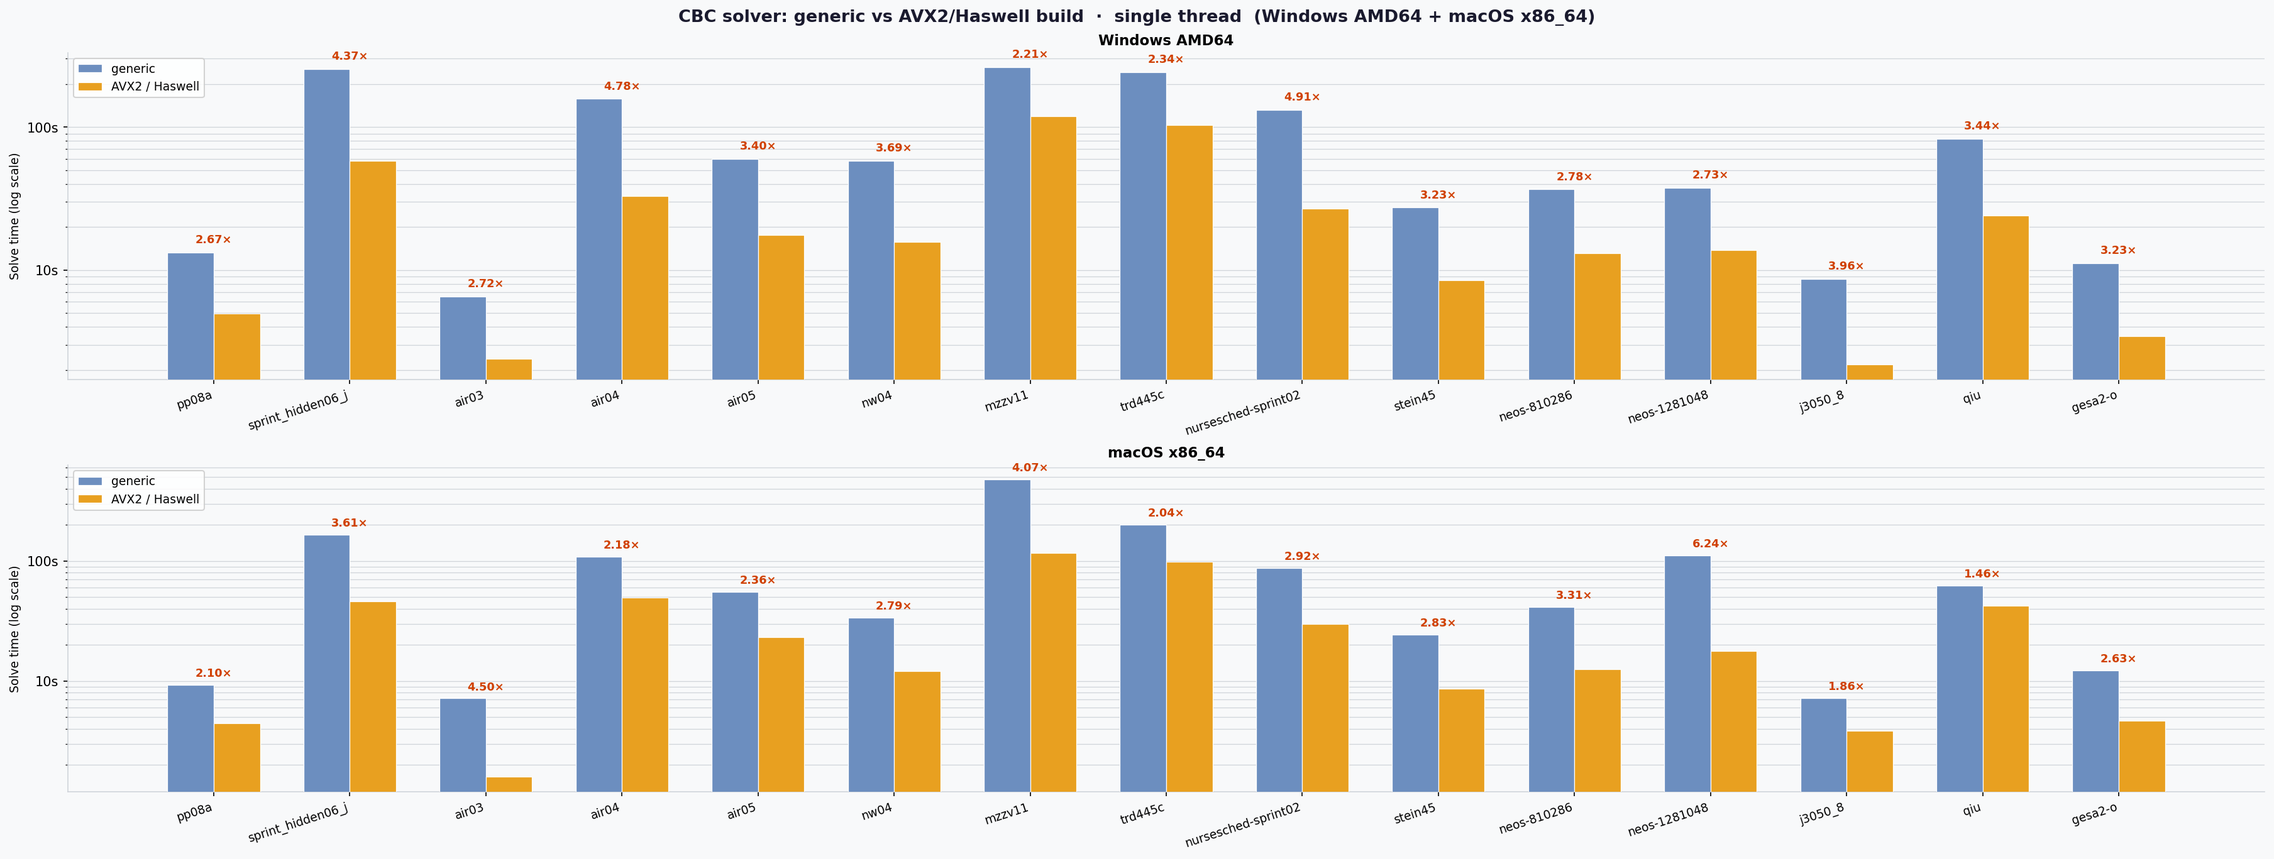
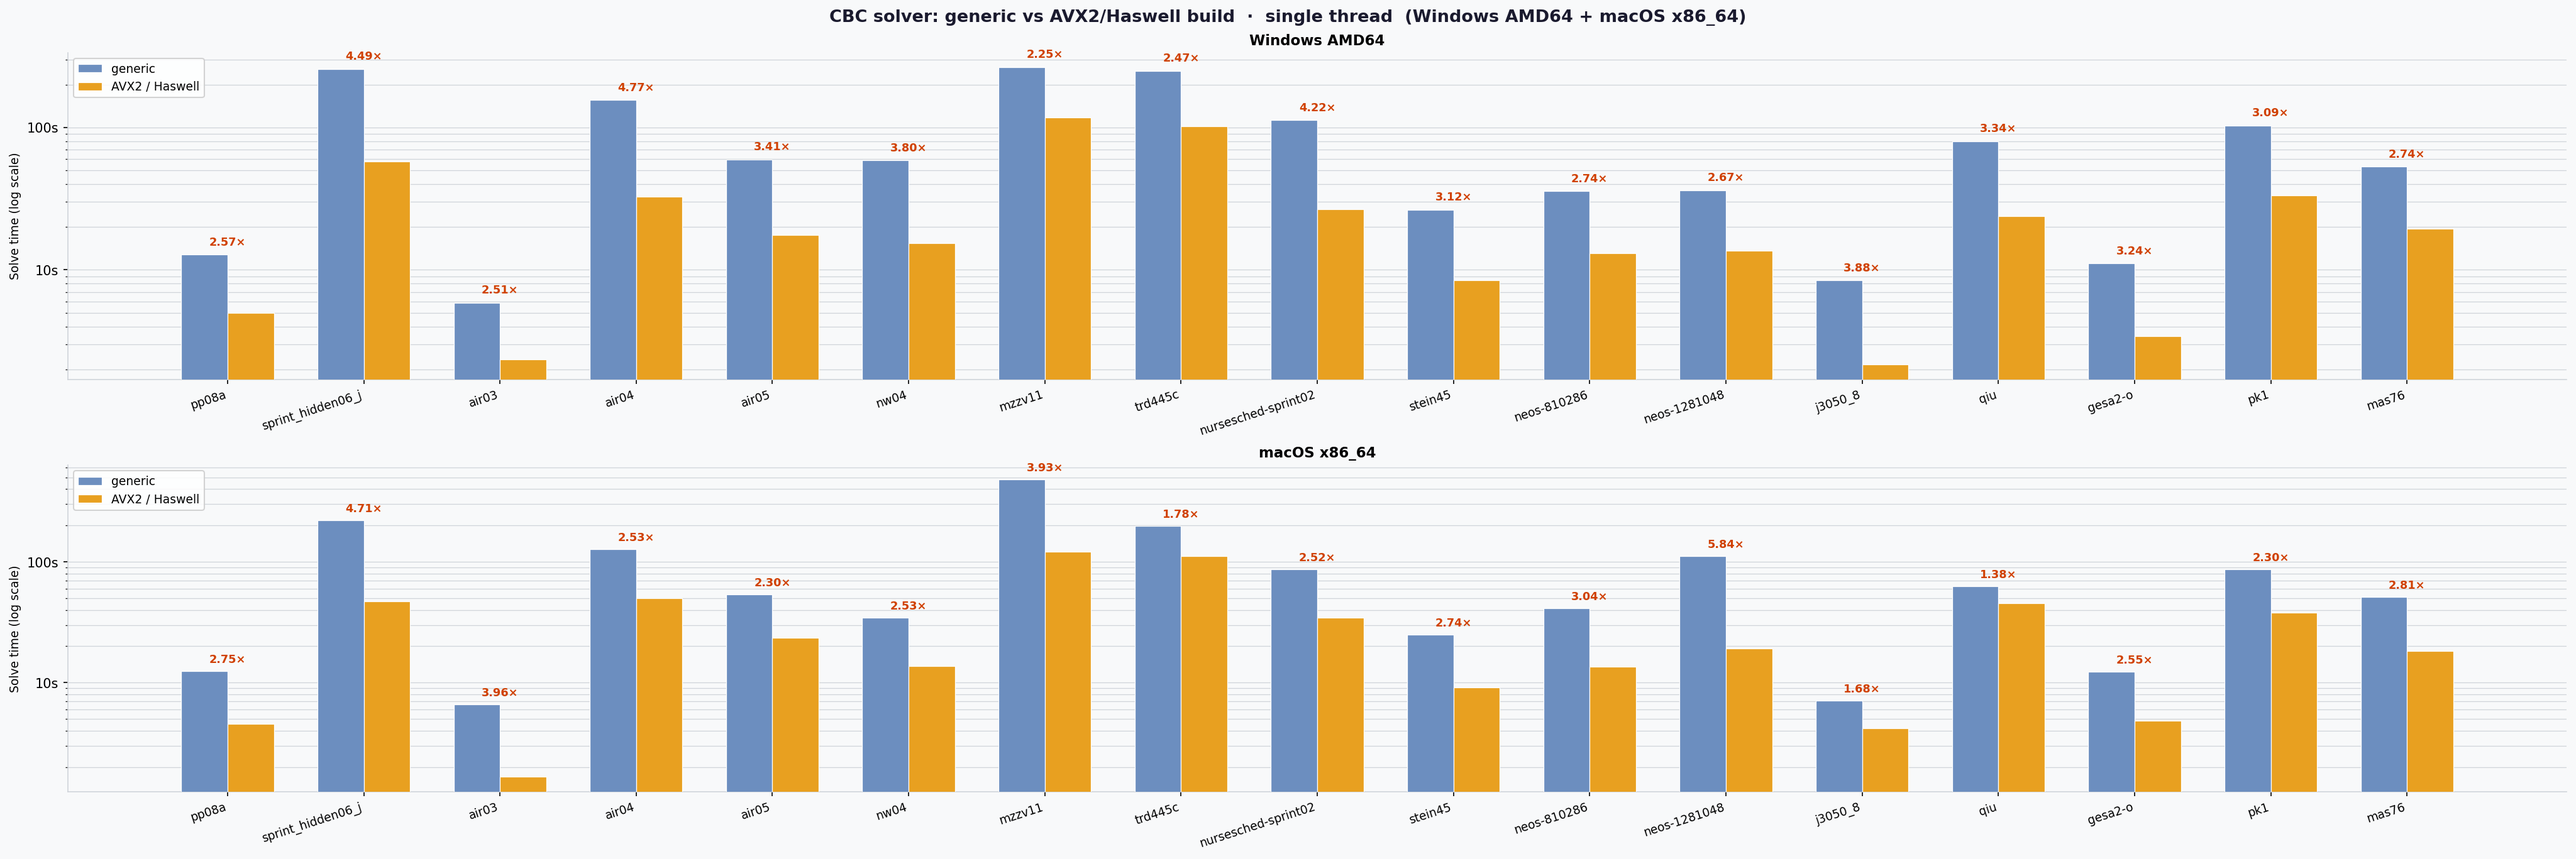
docs: update performance results [skip ci]

diff --git a/README.md b/README.md
@@ -328,17 +328,17 @@ Geometric mean solve time (seconds) across all test instances.
 
 | Platform | generic (s) | avx2 (s) | avx2 speedup |
 |---|---|---|---|
-| Darwin x86_64 | 46.88 | 16.76 | 2.80× |
-| Darwin arm64 | 35.72 | — | — |
-| Windows AMD64 | 49.96 | 15.28 | 3.27× |
+| Darwin x86_64 | 50.76 | 18.65 | 2.72× |
+| Darwin arm64 | 41.81 | — | — |
+| Windows AMD64 | 51.07 | 16.08 | 3.18× |
 
 ### 3 threads
 
 | Platform | generic (s) | avx2 (s) | avx2 speedup |
 |---|---|---|---|
-| Darwin x86_64 | 34.37 | 16.54 | 2.08× |
-| Darwin arm64 | 31.61 | — | — |
-| Windows AMD64 | 45.31 | 16.48 | 2.75× |
+| Darwin x86_64 | 36.69 | 16.89 | 2.17× |
+| Darwin arm64 | 38.21 | — | — |
+| Windows AMD64 | 46.62 | 15.92 | 2.93× |
 
 ## Per-instance results
 
@@ -346,151 +346,171 @@ Geometric mean solve time (seconds) across all test instances.
 
 | Platform | Build | 1 thread (s) | 3 threads (s) | parallel speedup |
 |---|---|---|---|---|
-| Darwin x86_64 | avx2 | 4.43 | 11.16 | 0.40× |
-| Darwin x86_64 | generic | 9.32 | 6.52 | 1.43× |
-| Darwin arm64 | generic | 8.86 | 12.14 | 0.73× |
-| Windows AMD64 | avx2 | 4.98 | 7.31 | 0.68× |
-| Windows AMD64 | generic | 13.30 | 20.96 | 0.63× |
+| Darwin x86_64 | avx2 | 4.54 | 12.21 | 0.37× |
+| Darwin x86_64 | generic | 12.50 | 5.87 | 2.13× |
+| Darwin arm64 | generic | 11.13 | 15.23 | 0.73× |
+| Windows AMD64 | avx2 | 4.97 | 8.13 | 0.61× |
+| Windows AMD64 | generic | 12.77 | 23.96 | 0.53× |
 
 ### `sprint_hidden06_j.mps.gz`
 
 | Platform | Build | 1 thread (s) | 3 threads (s) | parallel speedup |
 |---|---|---|---|---|
-| Darwin x86_64 | avx2 | 46.10 | 49.00 | 0.94× |
-| Darwin x86_64 | generic | 166.49 | 164.75 | 1.01× |
-| Darwin arm64 | generic | 117.40 | 116.09 | 1.01× |
-| Windows AMD64 | avx2 | 58.08 | 57.48 | 1.01× |
-| Windows AMD64 | generic | 253.97 | 231.89 | 1.10× |
+| Darwin x86_64 | avx2 | 46.81 | 49.23 | 0.95× |
+| Darwin x86_64 | generic | 220.56 | 164.30 | 1.34× |
+| Darwin arm64 | generic | 148.29 | 129.34 | 1.15× |
+| Windows AMD64 | avx2 | 57.47 | 54.68 | 1.05× |
+| Windows AMD64 | generic | 258.07 | 212.90 | 1.21× |
 
 ### `air03.mps.gz`
 
 | Platform | Build | 1 thread (s) | 3 threads (s) | parallel speedup |
 |---|---|---|---|---|
-| Darwin x86_64 | avx2 | 1.59 | 1.71 | 0.93× |
-| Darwin x86_64 | generic | 7.17 | 6.12 | 1.17× |
-| Darwin arm64 | generic | 3.74 | 4.62 | 0.81× |
-| Windows AMD64 | avx2 | 2.39 | 2.61 | 0.92× |
-| Windows AMD64 | generic | 6.52 | 6.20 | 1.05× |
+| Darwin x86_64 | avx2 | 1.66 | 1.86 | 0.89× |
+| Darwin x86_64 | generic | 6.58 | 6.21 | 1.06× |
+| Darwin arm64 | generic | 4.26 | 4.66 | 0.91× |
+| Windows AMD64 | avx2 | 2.35 | 2.39 | 0.98× |
+| Windows AMD64 | generic | 5.88 | 6.00 | 0.98× |
 
 ### `air04.mps.gz`
 
 | Platform | Build | 1 thread (s) | 3 threads (s) | parallel speedup |
 |---|---|---|---|---|
-| Darwin x86_64 | avx2 | 49.51 | 39.84 | 1.24× |
-| Darwin x86_64 | generic | 108.18 | 71.42 | 1.51× |
-| Darwin arm64 | generic | 101.37 | 77.75 | 1.30× |
-| Windows AMD64 | avx2 | 32.90 | 28.93 | 1.14× |
-| Windows AMD64 | generic | 157.28 | 128.07 | 1.23× |
+| Darwin x86_64 | avx2 | 50.02 | 36.48 | 1.37× |
+| Darwin x86_64 | generic | 126.75 | 108.34 | 1.17× |
+| Darwin arm64 | generic | 119.98 | 79.72 | 1.51× |
+| Windows AMD64 | avx2 | 32.67 | 27.32 | 1.20× |
+| Windows AMD64 | generic | 155.82 | 89.82 | 1.73× |
 
 ### `air05.mps.gz`
 
 | Platform | Build | 1 thread (s) | 3 threads (s) | parallel speedup |
 |---|---|---|---|---|
-| Darwin x86_64 | avx2 | 23.32 | 17.73 | 1.32× |
-| Darwin x86_64 | generic | 55.07 | 40.49 | 1.36× |
-| Darwin arm64 | generic | 45.97 | 41.33 | 1.11× |
-| Windows AMD64 | avx2 | 17.64 | 13.65 | 1.29× |
-| Windows AMD64 | generic | 60.04 | 42.21 | 1.42× |
+| Darwin x86_64 | avx2 | 23.51 | 18.07 | 1.30× |
+| Darwin x86_64 | generic | 53.95 | 44.40 | 1.22× |
+| Darwin arm64 | generic | 51.82 | 41.16 | 1.26× |
+| Windows AMD64 | avx2 | 17.55 | 13.39 | 1.31× |
+| Windows AMD64 | generic | 59.76 | 41.70 | 1.43× |
 
 ### `nw04.mps.gz`
 
 | Platform | Build | 1 thread (s) | 3 threads (s) | parallel speedup |
 |---|---|---|---|---|
-| Darwin x86_64 | avx2 | 12.16 | 13.96 | 0.87× |
-| Darwin x86_64 | generic | 33.93 | 46.54 | 0.73× |
-| Darwin arm64 | generic | 32.39 | 38.47 | 0.84× |
-| Windows AMD64 | avx2 | 15.73 | 16.08 | 0.98× |
-| Windows AMD64 | generic | 58.04 | 55.64 | 1.04× |
+| Darwin x86_64 | avx2 | 13.63 | 14.51 | 0.94× |
+| Darwin x86_64 | generic | 34.45 | 35.80 | 0.96× |
+| Darwin arm64 | generic | 35.97 | 37.41 | 0.96× |
+| Windows AMD64 | avx2 | 15.43 | 16.07 | 0.96× |
+| Windows AMD64 | generic | 58.61 | 53.68 | 1.09× |
 
 ### `mzzv11.mps.gz`
 
 | Platform | Build | 1 thread (s) | 3 threads (s) | parallel speedup |
 |---|---|---|---|---|
-| Darwin x86_64 | avx2 | 117.09 | 94.52 | 1.24× |
-| Darwin x86_64 | generic | 476.47 | 333.68 | 1.43× |
-| Darwin arm64 | generic | 239.62 | 214.84 | 1.12× |
-| Windows AMD64 | avx2 | 118.46 | 222.86 | 0.53× |
-| Windows AMD64 | generic | 261.27 | 269.50 | 0.97× |
+| Darwin x86_64 | avx2 | 121.72 | 76.65 | 1.59× |
+| Darwin x86_64 | generic | 478.14 | 351.49 | 1.36× |
+| Darwin arm64 | generic | 255.19 | 193.27 | 1.32× |
+| Windows AMD64 | avx2 | 117.33 | 140.70 | 0.83× |
+| Windows AMD64 | generic | 264.54 | 390.19 | 0.68× |
 
 ### `trd445c.mps.gz`
 
 | Platform | Build | 1 thread (s) | 3 threads (s) | parallel speedup |
 |---|---|---|---|---|
-| Darwin x86_64 | avx2 | 98.57 | 112.38 | 0.88× |
-| Darwin x86_64 | generic | 200.93 | 202.68 | 0.99× |
-| Darwin arm64 | generic | 171.81 | 188.80 | 0.91× |
-| Windows AMD64 | avx2 | 103.02 | 100.52 | 1.02× |
-| Windows AMD64 | generic | 241.19 | 231.39 | 1.04× |
+| Darwin x86_64 | avx2 | 111.99 | 104.13 | 1.08× |
+| Darwin x86_64 | generic | 198.88 | 204.17 | 0.97× |
+| Darwin arm64 | generic | 205.43 | 185.55 | 1.11× |
+| Windows AMD64 | avx2 | 101.53 | 114.88 | 0.88× |
+| Windows AMD64 | generic | 250.28 | 231.22 | 1.08× |
 
 ### `nursesched-sprint02.mps.gz`
 
 | Platform | Build | 1 thread (s) | 3 threads (s) | parallel speedup |
 |---|---|---|---|---|
-| Darwin x86_64 | avx2 | 29.92 | 41.20 | 0.73× |
-| Darwin x86_64 | generic | 87.36 | 90.99 | 0.96× |
-| Darwin arm64 | generic | 82.45 | 94.54 | 0.87× |
-| Windows AMD64 | avx2 | 26.77 | 26.52 | 1.01× |
-| Windows AMD64 | generic | 131.29 | 86.35 | 1.52× |
+| Darwin x86_64 | avx2 | 34.36 | 33.17 | 1.04× |
+| Darwin x86_64 | generic | 86.66 | 90.90 | 0.95× |
+| Darwin arm64 | generic | 96.86 | 96.62 | 1.00× |
+| Windows AMD64 | avx2 | 26.58 | 26.58 | 1.00× |
+| Windows AMD64 | generic | 112.24 | 87.62 | 1.28× |
 
 ### `stein45.mps.gz`
 
 | Platform | Build | 1 thread (s) | 3 threads (s) | parallel speedup |
 |---|---|---|---|---|
-| Darwin x86_64 | avx2 | 8.62 | 10.77 | 0.80× |
-| Darwin x86_64 | generic | 24.42 | 17.16 | 1.42× |
-| Darwin arm64 | generic | 18.49 | 13.54 | 1.37× |
-| Windows AMD64 | avx2 | 8.48 | — | — |
-| Windows AMD64 | generic | 27.34 | 17.13 | 1.60× |
+| Darwin x86_64 | avx2 | 9.14 | 8.06 | 1.13× |
+| Darwin x86_64 | generic | 25.04 | 15.92 | 1.57× |
+| Darwin arm64 | generic | 19.78 | 16.55 | 1.19× |
+| Windows AMD64 | avx2 | 8.44 | 7.87 | 1.07× |
+| Windows AMD64 | generic | 26.37 | 21.25 | 1.24× |
 
 ### `neos-810286.mps.gz`
 
 | Platform | Build | 1 thread (s) | 3 threads (s) | parallel speedup |
 |---|---|---|---|---|
-| Darwin x86_64 | avx2 | 12.48 | 14.28 | 0.87× |
-| Darwin x86_64 | generic | 41.37 | 40.30 | 1.03× |
-| Darwin arm64 | generic | 24.67 | 31.13 | 0.79× |
-| Windows AMD64 | avx2 | 13.18 | 15.63 | 0.84× |
-| Windows AMD64 | generic | 36.67 | 45.63 | 0.80× |
+| Darwin x86_64 | avx2 | 13.59 | 13.20 | 1.03× |
+| Darwin x86_64 | generic | 41.34 | 39.29 | 1.05× |
+| Darwin arm64 | generic | 25.92 | 38.85 | 0.67× |
+| Windows AMD64 | avx2 | 13.03 | 13.03 | 1.00× |
+| Windows AMD64 | generic | 35.70 | 47.87 | 0.75× |
 
 ### `neos-1281048.mps.gz`
 
 | Platform | Build | 1 thread (s) | 3 threads (s) | parallel speedup |
 |---|---|---|---|---|
-| Darwin x86_64 | avx2 | 17.78 | 9.66 | 1.84× |
-| Darwin x86_64 | generic | 110.96 | 15.89 | 6.98× |
-| Darwin arm64 | generic | 37.56 | 16.95 | 2.22× |
-| Windows AMD64 | avx2 | 13.75 | 17.43 | 0.79× |
-| Windows AMD64 | generic | 37.54 | 45.70 | 0.82× |
+| Darwin x86_64 | avx2 | 19.08 | 8.73 | 2.19× |
+| Darwin x86_64 | generic | 111.41 | 15.14 | 7.36× |
+| Darwin arm64 | generic | 41.77 | 20.37 | 2.05× |
+| Windows AMD64 | avx2 | 13.59 | 9.33 | 1.46× |
+| Windows AMD64 | generic | 36.29 | 23.16 | 1.57× |
 
 ### `j3050_8.mps.gz`
 
 | Platform | Build | 1 thread (s) | 3 threads (s) | parallel speedup |
 |---|---|---|---|---|
-| Darwin x86_64 | avx2 | 3.85 | 3.92 | 0.98× |
-| Darwin x86_64 | generic | 7.18 | 7.63 | 0.94× |
-| Darwin arm64 | generic | 7.70 | 6.77 | 1.14× |
-| Windows AMD64 | avx2 | 2.19 | 2.37 | 0.92× |
-| Windows AMD64 | generic | 8.67 | 6.97 | 1.24× |
+| Darwin x86_64 | avx2 | 4.21 | 3.61 | 1.17× |
+| Darwin x86_64 | generic | 7.09 | 7.79 | 0.91× |
+| Darwin arm64 | generic | 8.06 | 8.91 | 0.90× |
+| Windows AMD64 | avx2 | 2.17 | 2.37 | 0.91× |
+| Windows AMD64 | generic | 8.41 | 8.14 | 1.03× |
 
 ### `qiu.mps.gz`
 
 | Platform | Build | 1 thread (s) | 3 threads (s) | parallel speedup |
 |---|---|---|---|---|
-| Darwin x86_64 | avx2 | 42.56 | 15.79 | 2.70× |
-| Darwin x86_64 | generic | 62.31 | 24.57 | 2.54× |
-| Darwin arm64 | generic | 83.68 | 27.62 | 3.03× |
-| Windows AMD64 | avx2 | 24.09 | 12.37 | 1.95× |
-| Windows AMD64 | generic | 82.99 | 48.81 | 1.70× |
+| Darwin x86_64 | avx2 | 45.17 | 13.74 | 3.29× |
+| Darwin x86_64 | generic | 62.44 | 23.18 | 2.69× |
+| Darwin arm64 | generic | 89.50 | 41.60 | 2.15× |
+| Windows AMD64 | avx2 | 23.91 | 11.96 | 2.00× |
+| Windows AMD64 | generic | 79.93 | 39.56 | 2.02× |
 
 ### `gesa2-o.mps.gz`
 
 | Platform | Build | 1 thread (s) | 3 threads (s) | parallel speedup |
 |---|---|---|---|---|
-| Darwin x86_64 | avx2 | 4.68 | 5.11 | 0.92× |
-| Darwin x86_64 | generic | 12.31 | 9.84 | 1.25× |
-| Darwin arm64 | generic | 8.96 | 7.64 | 1.17× |
-| Windows AMD64 | avx2 | 3.45 | 3.29 | 1.05× |
-| Windows AMD64 | generic | 11.15 | 11.75 | 0.95× |
+| Darwin x86_64 | avx2 | 4.84 | 4.52 | 1.07× |
+| Darwin x86_64 | generic | 12.36 | 9.47 | 1.30× |
+| Darwin arm64 | generic | 9.58 | 9.93 | 0.96× |
+| Windows AMD64 | avx2 | 3.42 | 3.37 | 1.02× |
+| Windows AMD64 | generic | 11.08 | 11.84 | 0.94× |
+
+### `pk1.mps.gz`
+
+| Platform | Build | 1 thread (s) | 3 threads (s) | parallel speedup |
+|---|---|---|---|---|
+| Darwin x86_64 | avx2 | 37.84 | 37.32 | 1.01× |
+| Darwin x86_64 | generic | 86.89 | 59.84 | 1.45× |
+| Darwin arm64 | generic | 70.76 | 71.55 | 0.99× |
+| Windows AMD64 | avx2 | 33.31 | 28.42 | 1.17× |
+| Windows AMD64 | generic | 102.98 | 69.47 | 1.48× |
+
+### `mas76.mps.gz`
+
+| Platform | Build | 1 thread (s) | 3 threads (s) | parallel speedup |
+|---|---|---|---|---|
+| Darwin x86_64 | avx2 | 18.24 | 33.75 | 0.54× |
+| Darwin x86_64 | generic | 51.17 | 60.64 | 0.84× |
+| Darwin arm64 | generic | 43.67 | 58.64 | 0.74× |
+| Windows AMD64 | avx2 | 19.37 | 38.96 | 0.50× |
+| Windows AMD64 | generic | 52.99 | 76.50 | 0.69× |
 
 
 <!-- PERF_RESULTS_END -->
